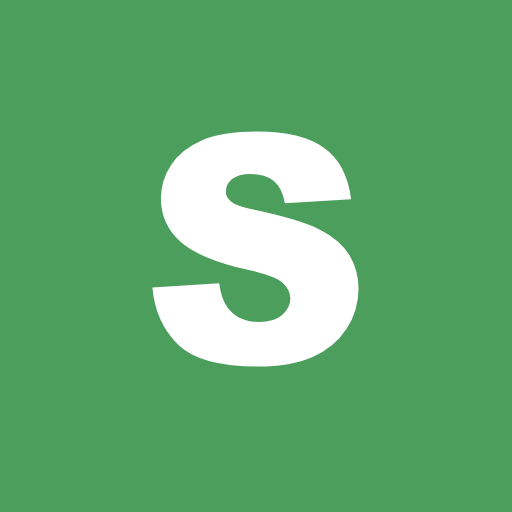
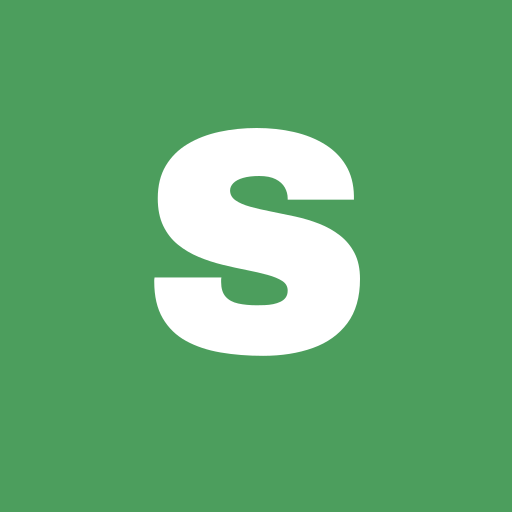
fix: make brand assets deterministic
EPIC 8 — Checkpoint 8.4.2. Los siete SVG de marca dibujaban el wordmark y el
monograma como <text> vivo con `font-family: 'Arial Black', Arial, Helvetica,
sans-serif`, asi que el dibujo de cada glifo lo resolvia la fuente instalada en
el equipo del visitante. Solo Windows veia la forma aprobada; medido en
Chromium, cualquier sustitucion realista perdia entre 12 % y 29 % del area de
tinta y movia la frontera SERTEC/Line hasta 98 unidades. Ahora la geometria es
vectorial y fija: 13 <path>, 3 <rect>, 2 <g>, y cero dependencias tipograficas.

Geometria. Los contornos salen de Archivo 900 —la familia que el sitio ya
self-hostea bajo SIL OFL 1.1— instanciada por gvar sobre el eje wght, cuya
coordenada normalizada en 900 es exactamente 1.0 porque avar mapea 1 a 1. La
opcion de vectorizar Arial Black se descarto en el audit: su propia
LicenseDescription embebida acota el uso al producto Microsoft en que vino y
termina en "Any other use is prohibited". Contra el candidato aprobado en el
audit, lo implementado da IoU 0.9995 en el wordmark, 0.9995 en el horizontal y
1.0 en el monograma, con cajas de tinta identicas campo por campo: solo difiere
el antialiasing. Contra la referencia Arial Black los cinco objetivos se
cumplen exactos: ancho total -0.44 %, SERTEC -0.49 %, Line -0.86 %, frontera
-0.05 %, altura de capital -3.93 %.

Invariantes. Casing SERTECLine, split cromatico, colores, viewBox, width,
height y rutas publicas quedan identicos byte a byte respecto de HEAD anterior.
[…]

diff --git a/docs/brand/README.md b/docs/brand/README.md
@@ -49,6 +49,29 @@ representa trabajo pendiente.
   marca. No es un nombre alternativo y no se usa como texto en ninguna
   superficie.
 
+## Geometría del wordmark (EPIC 8 — Checkpoint 8.4.2)
+
+Los siete SVG de marca dibujan el wordmark y el monograma como **contornos
+vectoriales**, no como `<text>` vivo. Hasta 8.4.2 declaraban
+`font-family: 'Arial Black', Arial, Helvetica, sans-serif`, así que el dibujo de
+cada glifo lo resolvía la fuente instalada en el equipo del visitante: sólo
+Windows veía la forma aprobada, y los demás sistemas recibían una sustitución
+que perdía entre 12 % y 29 % del área de tinta.
+
+La geometría actual proviene de **Archivo 900**, la familia que el sitio ya
+self-hostea bajo SIL OFL 1.1 (`public/fonts/archivo-OFL.txt`), convertida a
+`<path>`. Consecuencias que conviene no reabrir por accidente:
+
+- Los assets no dependen de ninguna fuente instalada ni embebida: el render es
+  idéntico en Windows, macOS, Linux, Android e iOS.
+- `logo.svg`, `logo-dark.svg`, `logo-light.svg` y `logo-mono.svg` comparten la
+  misma geometría y sólo difieren en los `fill`. `favicon.svg` y
+  `logo-monogram.svg` siguen siendo el mismo archivo.
+- Editar el wordmark ya no es editar texto: exige regenerar los contornos desde
+  Archivo 900 y vuelve a requerir aprobación de marca.
+- La marca textual canónica sigue siendo `Sertecline`, y es la que usan `alt`,
+  `aria-label` y toda la metadata.
+
 ## Referencia (no producción)
 
 `reference-components/` contiene los componentes de ejemplo tal como los
